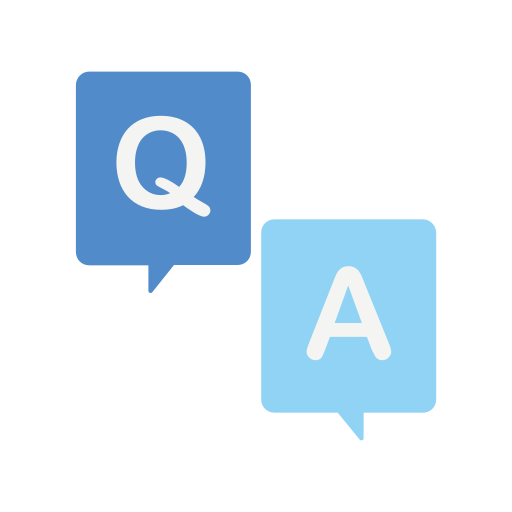
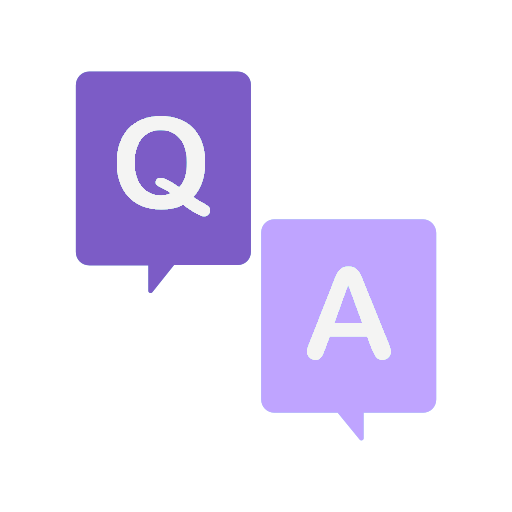
Design:전체 디자인 색상 변경

Changed region(s): [[0.125, 0.125, 0.875, 0.875]]

diff --git a/src/css/ServiceGrid.css b/src/css/ServiceGrid.css
@@ -29,7 +29,7 @@
 
 .card:hover {
   transform: translateY(-4px);
-  box-shadow: 0 1px 10px rgb(255, 166, 255);
+  box-shadow: 0 1px 10px #a18cd1;
 }
 
 .icon {
@@ -110,7 +110,7 @@
 
 .contact-form button {
   padding: 14px;
-  background-color: #5e4fff;
+  background-color: #a18cd1;
   color: #fff;
   border: none;
   border-radius: 6px;
@@ -120,7 +120,7 @@
 }
 
 .contact-form button:hover {
-  background-color: #443de6;
+  background-color: #d47eff;
 }
 
 /* name & email 나란히 */
@@ -243,11 +243,11 @@
 
 .howitworks-card:hover {
   transform: translateY(-4px);
-  box-shadow: 0 1px 10px rgb(255, 166, 255);
+  box-shadow: 0 1px 10px #a18cd1;
 }
 
 .step-circle {
-  background-color: #4a6fa5;
+  background-color: #a18cd1;
   color: #fff;
   width: 36px;
   height: 36px;
@@ -262,7 +262,6 @@
 
 .icon {
   font-size: 3rem;
-  margin: 1rem 0;
   color: #8ca9ff;
 }
 

diff --git a/src/css/AboutSection.css b/src/css/AboutSection.css
@@ -31,7 +31,7 @@
 
 .about-card {
     background-color: #f8faff;
-    border-left: 6px solid #6c63ff;
+    border-left: 6px solid #a18cd1;
     border-radius: 12px;
     box-shadow: 0 4px 12px rgba(0, 0, 0, 0.08);
     padding: 1.8rem 2rem;
@@ -42,7 +42,7 @@
 
 .about-card:hover {
     transform: translateY(-5px);
-    box-shadow: 0 1px 10px rgb(255, 166, 255);
+    box-shadow: 0 1px 10px #a18cd1
 }
 
 .about-card h2 {

diff --git a/src/css/header.css b/src/css/header.css
@@ -32,7 +32,7 @@ body,
 
 /* Footer 전체 구조 */
 .footer {
-  background-color: #0f172a;
+  background-color: #a18cd1;
   color: white;
   padding: 2rem 1rem;
   font-family: 'Noto Sans KR', sans-serif;
@@ -94,7 +94,7 @@ body,
 .footer-bottom {
   text-align: center;
   font-size: 0.85rem;
-  color: #a1a1aa;
+  color: #cfcfd1;
   margin-top: 2rem;
 }
 

diff --git a/src/css/FloatingChatButton.css b/src/css/FloatingChatButton.css
@@ -19,7 +19,7 @@
 .floating-button1 {
     width: 75px; /* 고정 너비 */
     height: 75px; /* 고정 높이 */
-    background-color: #4a6fa5;
+    background-color: #a18cd1;
     border-radius: 15px;
     box-shadow: 0px 4px 10px rgba(0, 0, 0, 0.2);
     display: flex;

diff --git a/src/css/App.css b/src/css/App.css
@@ -3,7 +3,7 @@
   flex-wrap: wrap;
   justify-content: space-between;
   align-items: center;
-  background: linear-gradient(135deg,   #43cea2, #185a9d);
+  background: linear-gradient(135deg,    #a18cd1, #fbc2eb);
   padding: 0rem 2rem;
   position: sticky;
   top: 0;
